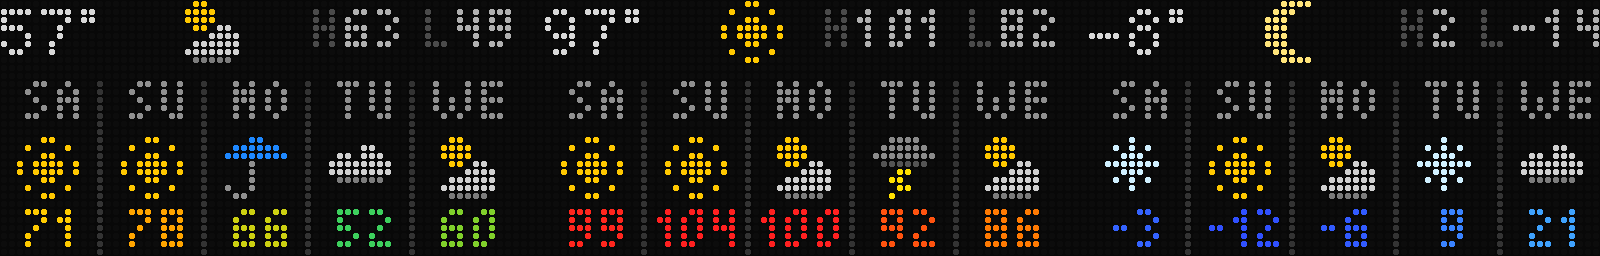
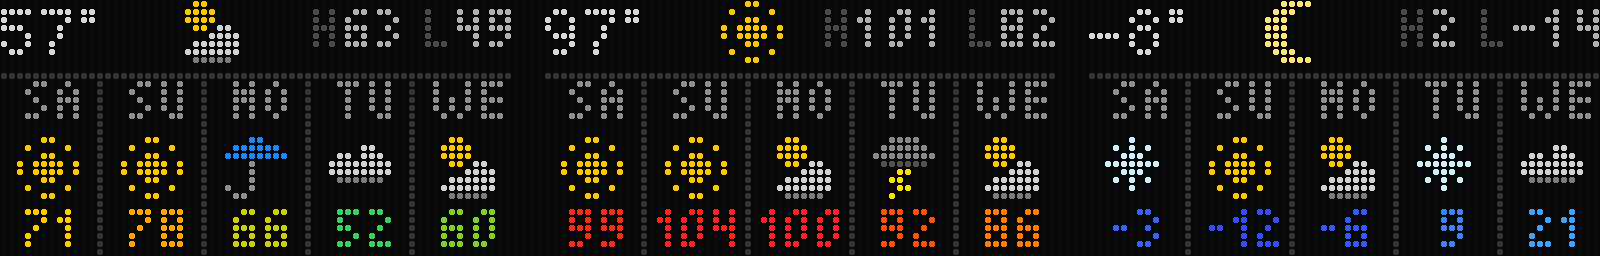
Board: rule above the 5-day columns
A #333333 line on row 9, full width, with the day dividers hanging from
it; row 8 stays clear under the top row. Nothing else moves.

Claude-Session: https://claude.ai/code/session_01A3rhig7LG9zSFWymE8NacA

Changed region(s): [[0.0, 0.2812, 1.0, 0.3125]]

diff --git a/server/board/draw.js b/server/board/draw.js
@@ -756,7 +756,8 @@
     // ---- 5-day layout (wxView '5day'; mockup docs/board/mockups/weather/5day-final) ----
     // The weather screen without rain when wx carries `days`. Today on rows
     // 0-7: the temperature (5x7, label white, small degree sign), the icon at x22, `H63 L49` right-aligned (letters dim, numbers
-    // light). Below, five 13px day columns split by dividers on rows 10-31:
+    // light). Below, a rule on row 9 (row 8 kept clear of the icon) and five
+    // 13px day columns split by dividers hanging from it on rows 10-31:
     // weekday (rows 11-15), icon (17-24), and the high in its temperature
     // color (rows 27-31).
     const FD_LETTER = '#4a4a4a', FD_NUM = '#b0b0b0';
@@ -789,6 +790,7 @@
         hx = f.text('small', ' L', hx, 6, FD_LETTER);
         f.text('small', String(wx.lo), hx, 6, FD_NUM);
       }
+      f.fill(0, 9, 64, 1, C.divider);
       for (let i = 1; i < 5; i++) f.fill(i * FD_PITCH - 1, 10, 1, 22, C.divider);
       wx.days.slice(0, 5).forEach((d, i) => {
         const cx = i * FD_PITCH + 6;

diff --git a/server/board/draw.test.js b/server/board/draw.test.js
@@ -503,7 +503,9 @@ test('weather 5-day: today on top, five day columns between dividers; a warning 
   assert.ok(count(f, '#4a4a4a', 34, 1, 63, 5) > 5, 'dim H/L letters');
   assert.ok(count(f, '#b0b0b0', 61, 1, 63, 5) > 0, 'right-aligned to x63');
   for (const x of [12, 25, 38, 51]) for (let y = 10; y <= 31; y++) assert.equal(hex(f.get(x, y)), draw.C.divider, `divider ${x},${y}`);
-  assert.equal(count(f, draw.C.divider, 0, 0, 63, 9), 0, 'no horizontal divider');
+  for (let x = 0; x < 64; x++) assert.equal(hex(f.get(x, 9)), draw.C.divider, `rule col ${x}`);
+  assert.equal(count(f, draw.C.divider, 0, 0, 63, 8), 0, 'row 8 clear under the top bar');
+  for (let x = 0; x < 64; x++) assert.deepEqual(f.get(x, 8), [0, 0, 0], `margin col ${x}`);
   for (let i = 0; i < 5; i++) {
     const x0 = i * 13, x1 = x0 + 11;
     assert.ok(count(f, draw.C.grey, x0, 11, x1, 15) > 8, `day ${i} label`);

diff --git a/firmware/boardlib/draw.py b/firmware/boardlib/draw.py
@@ -989,6 +989,7 @@ def draw_five_day(f, wx):
         hx = f.text('small', str(wx['hi']), hx, 6, FD_NUM)
         hx = f.text('small', ' L', hx, 6, FD_LETTER)
         f.text('small', str(wx['lo']), hx, 6, FD_NUM)
+    f.fill(0, 9, 64, 1, C['divider'])
     for i in range(1, 5):
         f.fill(i * FD_PITCH - 1, 10, 1, 22, C['divider'])
     for i, d in enumerate(wx['days'][:5]):

diff --git a/docs/board/design-spec.md b/docs/board/design-spec.md
@@ -231,7 +231,7 @@ Server-side short-name map so labels fit (~6–7 characters next to a two-digit 
 
 - **Weather by default, radar when rain is in the box** (count of colored pixels, with separate on/off thresholds so it doesn't flicker in and out). The screen is `weather` (formerly `radar`); the payload's `radar` object, the radar frame endpoint, and the radar visit/time settings keep their names since they're about the radar loop. Timed visits on the auto screen still only happen while it rains, so they always show the radar.
 - **Weather layout** (Open-Meteo; exact pixels in `contract.md`, Radar): big temperature in the 9x15 Bold digits with a 3x3 ring degree sign, icon top right with the dim condition word under it, divider on row 18, then `FEELS 53°` + wind (`NW 12`) and `H 63° L 49°` + rain chance (a small blue drop + `20%`, the highest hourly chance over the next 6 hours). A **watch or warning replaces the high/low line** with the glyph and `TSTORM WATCH` / `TSTORM WARNING` / `TORNADO WATCH` / `TORNADO WARN` in the warning colors (tornado warning blinks). Preview: `docs/board/previews/mock-weather-screen.png`.
-- **5-day layout** (per board, `wxView` on the phone: Conditions or 5-day): today on top (temperature in 5x7 white, icon, dim `H63 L49` right), then the next five days in 13px columns split by thin vertical dividers: two-letter weekday, icon, and the high colored blue (cold) to red (hot). A watch or warning switches back to the conditions layout while it's on, since only that has a line for it. Preview: `docs/board/previews/mock-weather-5day.png`.
+- **5-day layout** (per board, `wxView` on the phone: Conditions or 5-day): today on top (temperature in 5x7 white, icon, dim `H63 L49` right), then a thin rule and the next five days in 13px columns split by thin vertical dividers hanging from it: two-letter weekday, icon, and the high colored blue (cold) to red (hot). A watch or warning switches back to the conditions layout while it's on, since only that has a line for it. Preview: `docs/board/previews/mock-weather-5day.png`.
 - **Configurable location**; crop centered on it (~1.5 mi/pixel).
 - **Pipeline (server):** crop → palette index to dBZ → average linear reflectivity per LED block → levels (15/25/35/45/55 dBZ: dim green, green, yellow, orange, red) → despeckle (drop pixels with <2 colored neighbors) → small indexed image.
 - **Snow (v1):** the whole frame switches to a 3-level snow palette (light blue, pale blue, white) when Open-Meteo reports a snow weather code, or ≤ 32°F without freezing rain. Snow gets its own thresholds (provisional 10/15/20 dBZ, from the Feb 2, 2022 storm) because dry snow reflects much less than rain. A rain/snow line inside the box, and mixed precip, render as one type. Details in `contract.md`.

diff --git a/docs/board/contract.md b/docs/board/contract.md
@@ -231,7 +231,7 @@ From Open-Meteo (`server/board/weather.js`; fixture `fixtures/open-meteo/`), at 
 
 **5-day layout** (`wx.days` present and no `warn`; with a warning or watch the board draws the conditions layout above, which has room for it; `drawFiveDay()` in `draw.js`, `draw_five_day()` in `draw.py`; preview `previews/mock-weather-5day.png`):
 - Today on rows 0–7: `temp` in X11 5x7 at x0, baseline 7, label white, then a Tom Thumb `°` (baseline 6); the `icon` at x22, y0; `H63 L49` (Tom Thumb, baseline 6) right-aligned to x63, the letters `#4a4a4a` and the numbers `#b0b0b0`.
-- Five 13px day columns, centers x6, 19, 32, 45, 58, split by `#333333` dividers on cols 12, 25, 38, 51 (rows 10–31). Per column: `d` grey centered (baseline 15), the day's icon at center − 4, y17, and `hi` centered (baseline 31) in its temperature color (the `TEMP_STOPS` blend, blue −10°F to red 100°F). Three-character highs (100+, −10 and below) draw tight to keep a pixel off the dividers: `1` advances 3 and the minus is a 2px bar (row 28); every negative high uses that minus. Fewer than five days leave the right columns empty.
+- A `#333333` rule on row 9, full width (row 8 stays clear under the top row), and five 13px day columns, centers x6, 19, 32, 45, 58, split by `#333333` dividers hanging from it on cols 12, 25, 38, 51 (rows 10–31). Per column: `d` grey centered (baseline 15), the day's icon at center − 4, y17, and `hi` centered (baseline 31) in its temperature color (the `TEMP_STOPS` blend, blue −10°F to red 100°F). Three-character highs (100+, −10 and below) draw tight to keep a pixel off the dividers: `1` advances 3 and the minus is a 2px bar (row 28); every negative high uses that minus. Fewer than five days leave the right columns empty.
 
 When `on` is false, `frames` and `ft` are empty and `timeBox` may be `null`.
 
